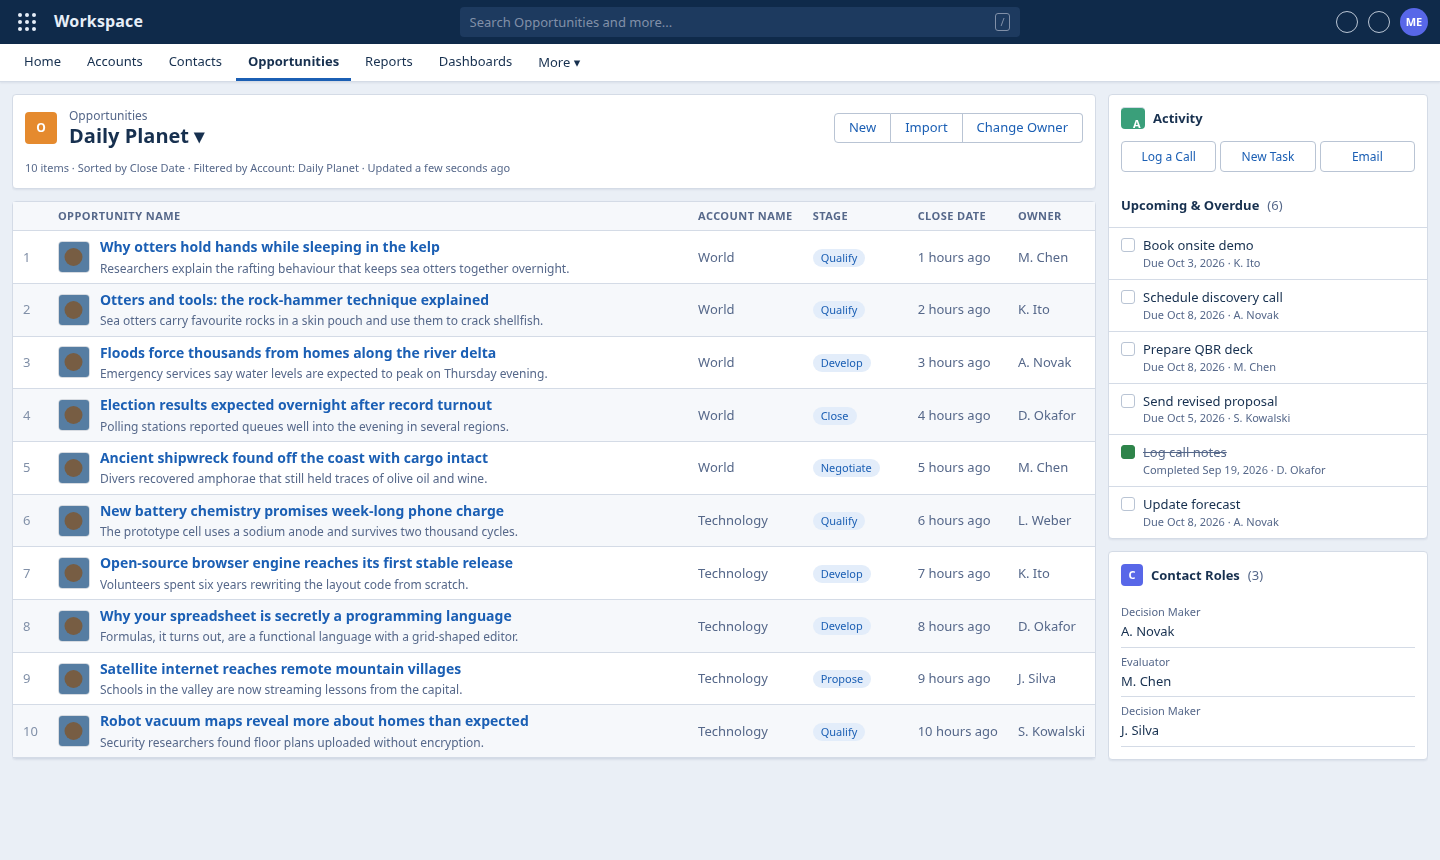
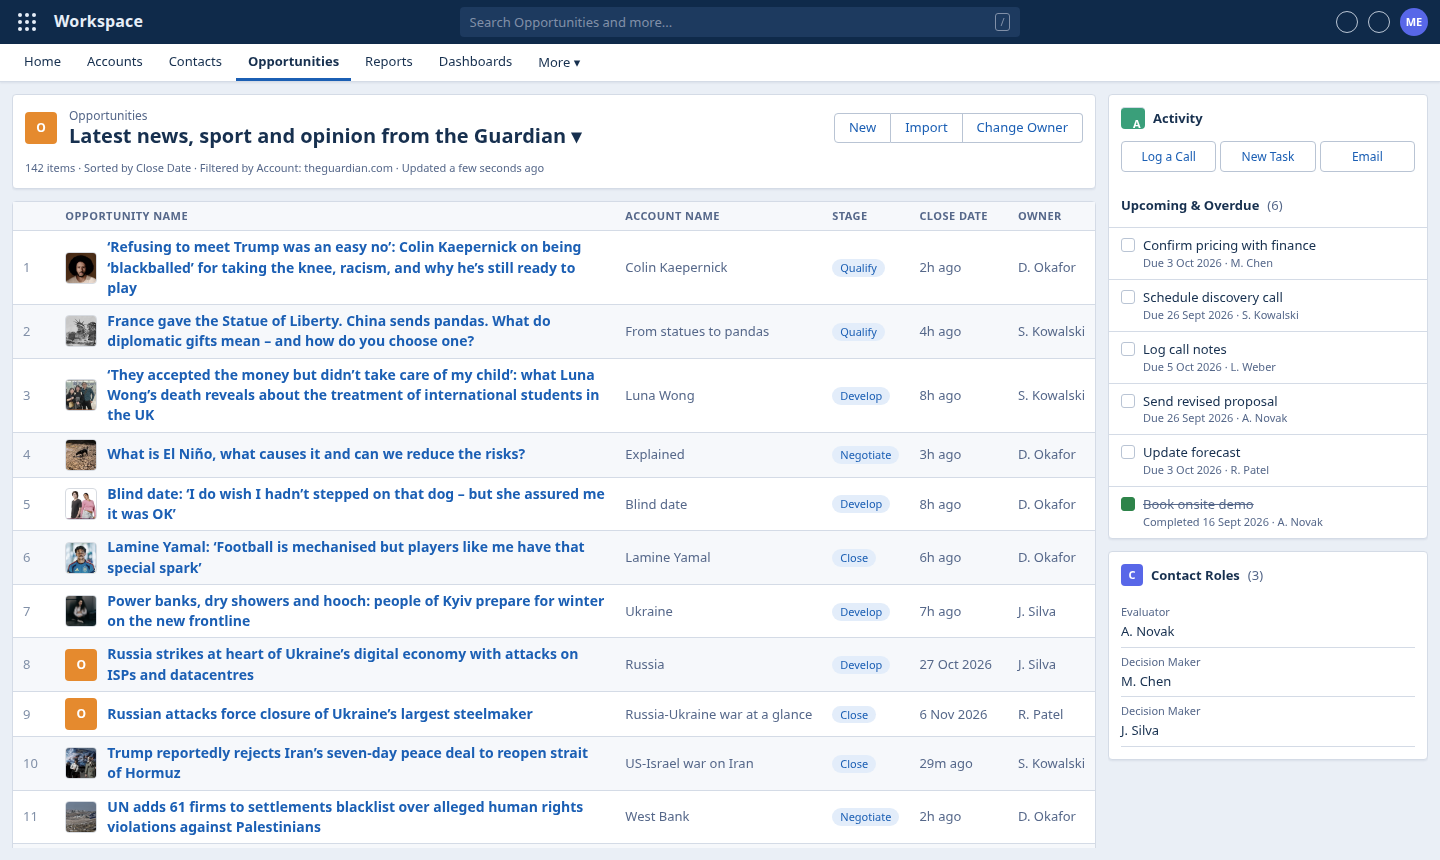
Guardian before/after screenshots; handle overlay-link news cards
README before/after now shows the real theguardian.com homepage and its
disguised version (cookie dialog and empty ad placeholder removed for
the screenshot only).

Taking them exposed index-page extraction bugs on the Guardian, fixed:
- card-wide overlay links with no text (headline only in aria-label)
  were skipped, losing the main stories and their pictures
- short kicker labels were glued onto headlines ("RussiaRussia
  strikes..."); they are now split off and shown as Account Name
- story h3 headlines were mistaken for section groups; groups now come
  from h2 section headings when the page has them
- an overlay link sharing its card with sub-links now finds the card's
  own picture, heading and summary

New guardian-home.html fixture mirrors the captured card markup.
Version 0.1.1.

diff --git a/content/extract.js b/content/extract.js
@@ -28,6 +28,7 @@
   const INDEX_LD_RE = /"@type"\s*:\s*\[?\s*"(CollectionPage|ItemList)"/;
   const SUMMARY_SEL = 'p, [class*="summary" i], [class*="description" i], [class*="excerpt" i], [class*="dek" i], [class*="standfirst" i], [class*="teaser" i]';
   const SKIP_LINK_RE = /^skip to\b/i;
+  const KICKER_MAX_CHARS = 30;
   // Social feeds (X, Bluesky, Mastodon, Threads...): posts are articles whose permalink wraps a <time>
   const POST_SEL = 'article, [role="article"]';
   const PERMALINK_HINT_RE = /\/(status|statuses|post|posts|notes)\/[\w-]+/i;
@@ -421,7 +422,9 @@
       const href = absUrl(a.getAttribute('href'), base).split('#')[0];
       if (!/^(https?|file):/.test(href) || href === self) continue;
       if (a.closest('nav, footer, [role="navigation"], [role="contentinfo"]')) continue;
-      const t = norm(a.textContent);
+      let t = norm(a.textContent);
+      // card-wide overlay links carry no text, only an aria-label (theguardian.com and many others)
+      if (t.length < HEADLINE_MIN_CHARS) { const al = norm(a.getAttribute('aria-label')); if (al.length >= HEADLINE_MIN_CHARS) t = al; }
       const inHeading = !!a.closest('h1, h2, h3, h4');
       if ((t.length < HEADLINE_MIN_CHARS && !(inHeading && t.length >= 8)) || t.length > 300) continue;
       if (live && !a.getClientRects().length) continue;
@@ -453,14 +456,29 @@
     return 'article';
   }
 
+  // "Russia" + "Russia strikes at..." rendered inline: split a short leading label off the headline
+  function splitKicker(el) {
+    for (const node of [el, ...el.querySelectorAll('h1, h2, h3, h4, div, span')]) {
+      const kids = [...node.children];
+      if (kids.length < 2) continue;
+      const kicker = norm(kids[0].textContent);
+      const rest = norm(kids.slice(1).map((k) => k.textContent).join(' '));
+      if (kicker && kicker.length <= KICKER_MAX_CHARS && rest.length >= 15 && norm(node.textContent).startsWith(kicker)) return { kicker, title: rest };
+    }
+    return { kicker: '', title: norm(el.textContent) };
+  }
+
   function indexItems(doc, base, links) {
     const cands = new Set(links.map((l) => l.a));
-    const headings = [...doc.querySelectorAll('h2, h3')].filter((h) => {
+    const hasH2 = !!doc.querySelector('h2');
+    const headings = [...doc.querySelectorAll(hasH2 ? 'h2' : 'h2, h3')].filter((h) => {
       const t = norm(h.textContent);
       return t.length >= 2 && t.length <= 60 && ![...h.querySelectorAll('a')].some((a) => cands.has(a));
     });
     const byHref = new Map();
-    for (const { a, href, title } of links) {
+    for (const link of links) {
+      const { a, href } = link;
+      let { title } = link;
       // widest ancestor that still holds only this headline = the story card
       let box = a;
       while (box.parentElement && box.parentElement !== doc.body) {
@@ -472,28 +490,39 @@
         if (other) break;
         box = p;
       }
+      // an overlay link that shares its card with sub-links cannot widen; look around it instead,
+      // ignoring anything that belongs to another headline link
+      const scope = box === a && a.parentElement ? a.parentElement : box;
+      const own = (el) => { const l = el.closest('a[href]'); return !l || l === a || !cands.has(l); };
+      const find = (sel) => [...scope.querySelectorAll(sel)].filter(own);
+      // headline element: inside the link, or (overlay links) the card's heading
+      const headEl = a.querySelector('h1, h2, h3, h4') || (!norm(a.textContent) ? find('h2, h3, h4').find((x) => !headings.includes(x)) : null) || a;
+      const parts = splitKicker(headEl);
+      let kicker = '';
+      if (parts.kicker && parts.title) { kicker = parts.kicker; title = parts.title; }
       let summary = '';
-      for (const el of box.querySelectorAll(SUMMARY_SEL)) {
+      for (const el of find(SUMMARY_SEL)) {
         const t = norm(el.textContent);
         if (t.length >= 30 && t.length <= 400 && !t.includes(title) && !title.includes(t)) { summary = t; break; }
       }
       // table-layout listings (Hacker News style) keep the byline in the next row
       const nx = box.tagName === 'TR' && box.nextElementSibling;
       if (!summary && nx && ![...nx.querySelectorAll('a[href]')].some((x) => cands.has(x))) summary = norm(nx.textContent).slice(0, 200);
-      const timeEl = box.querySelector('time');
+      const timeEl = find('time')[0];
       const time = timeEl ? norm(timeEl.textContent) || norm(timeEl.getAttribute('datetime')) : '';
       let image = '';
-      for (const img of box.querySelectorAll('img')) { const b = imageBlock(img, base); if (b) { image = b.src; break; } }
+      for (const img of find('img')) { const b = imageBlock(img, base); if (b) { image = b.src; break; } }
       let group = '';
       for (const h of headings) {
-        if (box.contains(h)) continue;
+        if (a.contains(h) || h.contains(a) || headEl.contains(h)) continue;
         if (h.compareDocumentPosition(a) & 4) group = norm(h.textContent); else break;
       }
       const prev = byHref.get(href);
       if (prev) {
         if (title.length > prev.title.length) prev.title = title;
         prev.summary = prev.summary || summary; prev.image = prev.image || image; prev.time = prev.time || time;
-      } else byHref.set(href, { title, href, summary, time, image, group });
+        prev.kicker = prev.kicker || kicker;
+      } else byHref.set(href, { title, href, summary, time, image, group, kicker });
       if (byHref.size >= MAX_ITEMS) break;
     }
     return [...byHref.values()];
@@ -590,7 +619,7 @@
     return model;
   }
 
-  const api = { extract, modelText, runsText, VERSION: '0.1.0' };
+  const api = { extract, modelText, runsText, VERSION: '0.1.1' };
   if (typeof module === 'object' && module.exports) module.exports = api;
   else root.ProLookExtract = api;
 })(typeof globalThis !== 'undefined' ? globalThis : this);

diff --git a/tests/fixtures/guardian-home.html b/tests/fixtures/guardian-home.html
@@ -1,0 +1,23 @@
+<!doctype html><html lang="en"><head><meta charset="utf-8"><title>Latest news, sport and opinion from the Guardian | The Guardian</title>
+<meta property="og:type" content="website"></head>
+<body><header><nav><a href="/world">World</a><a href="/uk-news">UK</a></nav></header>
+<main id="maincontent">
+<!-- Card markup mirrors theguardian.com (captured 2026-09-26): an empty overlay link with aria-label,
+     headline in an h3 outside the link with a kicker <div>, picture outside the link, and "sublinks" whose
+     text link wraps h3 > div(kicker) + span(headline). Text is fake. -->
+<section><h2>News</h2><div><ul>
+  <li><div><a href="/world/2026/sep/26/river-delta-floods" aria-label="Floods force thousands from homes along the river delta"></a>
+    <div><div><picture><img src="img/otter.svg" alt="Rescue boats on a flooded street"></picture></div>
+    <div><h3><div>Floods</div><span>Floods force thousands from homes along the river delta</span></h3>
+    <div><p>Emergency services say water levels will peak on Thursday evening.</p></div></div></div>
+    <ul><li><a href="/world/2026/sep/26/delta-flood-maps"><h3><div>Explainer</div><span>Maps show how far the flood water has spread</span></h3></a></li></ul></div></li>
+  <li><div><a href="/world/2026/sep/26/election-turnout" aria-label="Election results expected overnight after record turnout"></a>
+    <div><div><picture><img src="img/otter.svg" alt="Voters queue outside a polling station"></picture></div>
+    <div><h3><div>Election 2026</div><span>Election results expected overnight after record turnout</span></h3></div></div></div></li>
+</ul></div></section>
+<section><h2>Sport</h2><div><ul>
+  <li><div><a href="/sport/2026/sep/26/city-verdict" aria-label="City verdict: what happens next for the club"></a>
+    <div><div><picture><img src="img/otter.svg" alt="Stadium at night"></picture></div>
+    <div><h3><div>Football</div><span>City verdict: what happens next for the club</span></h3></div></div></div></li>
+</ul></div></section>
+</main><footer><a href="/help/terms-of-service">Terms and conditions of using the site</a></footer></body></html>

diff --git a/content/render.js b/content/render.js
@@ -4,7 +4,7 @@
   'use strict';
 
   // ─── Constants ───
-  const VERSION = '0.1.0';
+  const VERSION = '0.1.1';
   const HOST_ID = 'pro-look-root';
   const FAKE_TITLES = { article: 'Opportunity | Workspace', index: 'Opportunities | Workspace', feed: 'Cases | Workspace', case: 'Case | Workspace' };
   const CASE_STAGES = ['New', 'Working', 'Escalated', 'Resolved', 'Closed'];
@@ -268,7 +268,7 @@
           ? h('img', { class: 'thumb', src: it.image, alt: '', loading: 'lazy', referrerpolicy: 'no-referrer', 'data-alt': it.title })
           : h('span', { class: 'ico opp', 'aria-hidden': 'true', text: 'O' }),
         h('div', {}, h('a', { class: 'lv-link', href: it.href, text: it.title }), it.summary ? h('div', { class: 'lv-sum', text: it.summary }) : null))),
-      h('td', { class: 'meta', text: it.group || hostOf(it.href) }),
+      h('td', { class: 'meta', text: it.kicker || it.group || hostOf(it.href) }),
       h('td', {}, h('span', { class: 'pill', text: pick(STAGES) })),
       h('td', { class: 'meta', text: it.time || dayOffset(rint(3, 60)) }),
       h('td', { class: 'meta', text: pick(OWNERS) })));

diff --git a/README.md b/README.md
@@ -4,9 +4,11 @@
 
 Pro Look is a Chrome extension. Press one shortcut and the website you are reading is redrawn as a sober, blue-grey sales app: headlines become "opportunities", article paragraphs become "emails" and "call notes" in an activity timeline, tweets become support "cases", and pictures shrink to tiny thumbnails that look like file icons. You can still read everything; from across the room it just looks like work.
 
-| Before | After (Ctrl+Shift+X) |
+| Before: theguardian.com | After: Ctrl+Shift+X |
 | --- | --- |
-| ![A news homepage before](docs/before-home.png) | ![The same page as a CRM list of opportunities](docs/after-home.png) |
+| ![The Guardian homepage as it normally looks](docs/before-home.png) | ![The same Guardian homepage redrawn as a CRM list of opportunities](docs/after-home.png) |
+
+<sub>Screenshots of theguardian.com are shown only to illustrate what the extension does. Pro Look is not affiliated with the Guardian.</sub>
 
 ---
 
